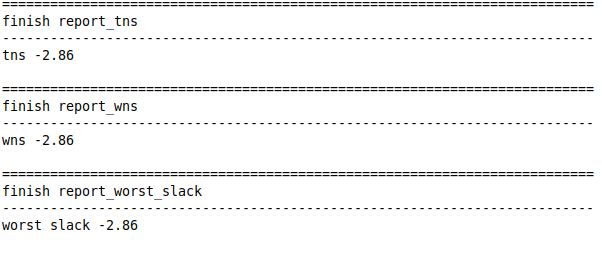
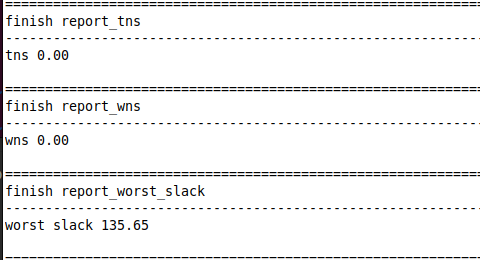
added

Changed region(s): [[0.0, 0.0, 1.0, 1.0]]

diff --git a/README.md b/README.md
@@ -47,9 +47,7 @@
 
 5. Distributing the metal later property for clock tree, signal net and pin to get better PPA without zero -ve skew.
 
-6. Adjust the global routing layer properly to minimize routing congestion.
-
-7. Keep the design DRC free while increasing the clock frequency.
+6. Keep the design DRC free while increasing the clock frequency.
 
 
 #
@@ -72,15 +70,12 @@ Set unconstraints paths into false path.
 Changed the CTS cell.
 Defining clock routing layer.
 
-`Route:`
-
-Adjust the global routing layer.
-Changing the metal routing layer.
-
 
 #
 # Make changes :
-In `floorplan.sdc` file we updated the false path to clear the unconstrained paths and endpoints which are `TIE` low cells.
+
+In `2_floorplan.sdc` file we updated the false path to clear the unconstrained paths and endpoints which are `TIE` low cells. In `constraint.sdc` file changed the clk io percentage into 0.15 that is  `set clk_io_pct 0.15` to improve the timing of the design.
+
 ```
 #set_input_delay 352.0000 -clock [get_clocks {core_clock}] -add_delay [get_ports {rst_ni}]
 set_false_path -from [get_ports {rst_ni}]
@@ -103,13 +98,12 @@ set_false_path -from [get_pins _36182_/CLK]
 set_false_path -from [get_pins _36313_/CLK]
 ```
 
-In `cts` stage we changed the clock routing layer and CTS cell list for our design to improve the timing.
+In `cts` stage we changed CTS cell list in `platforms` `config.mk` file for our design to improve the timing.
 
-![cts](./images/cts.png)
+```
+export CTS_BUF_CELL  ?= BUFx8_ASAP7_75t_R
+```
 
-In `route` we modified the global routing layer adjustment attribute in our design to get the better PPA and modify the routing layer to use the metal layer properly for signal routing.
-
-![route](./images/routing.png)
 
 
 #
